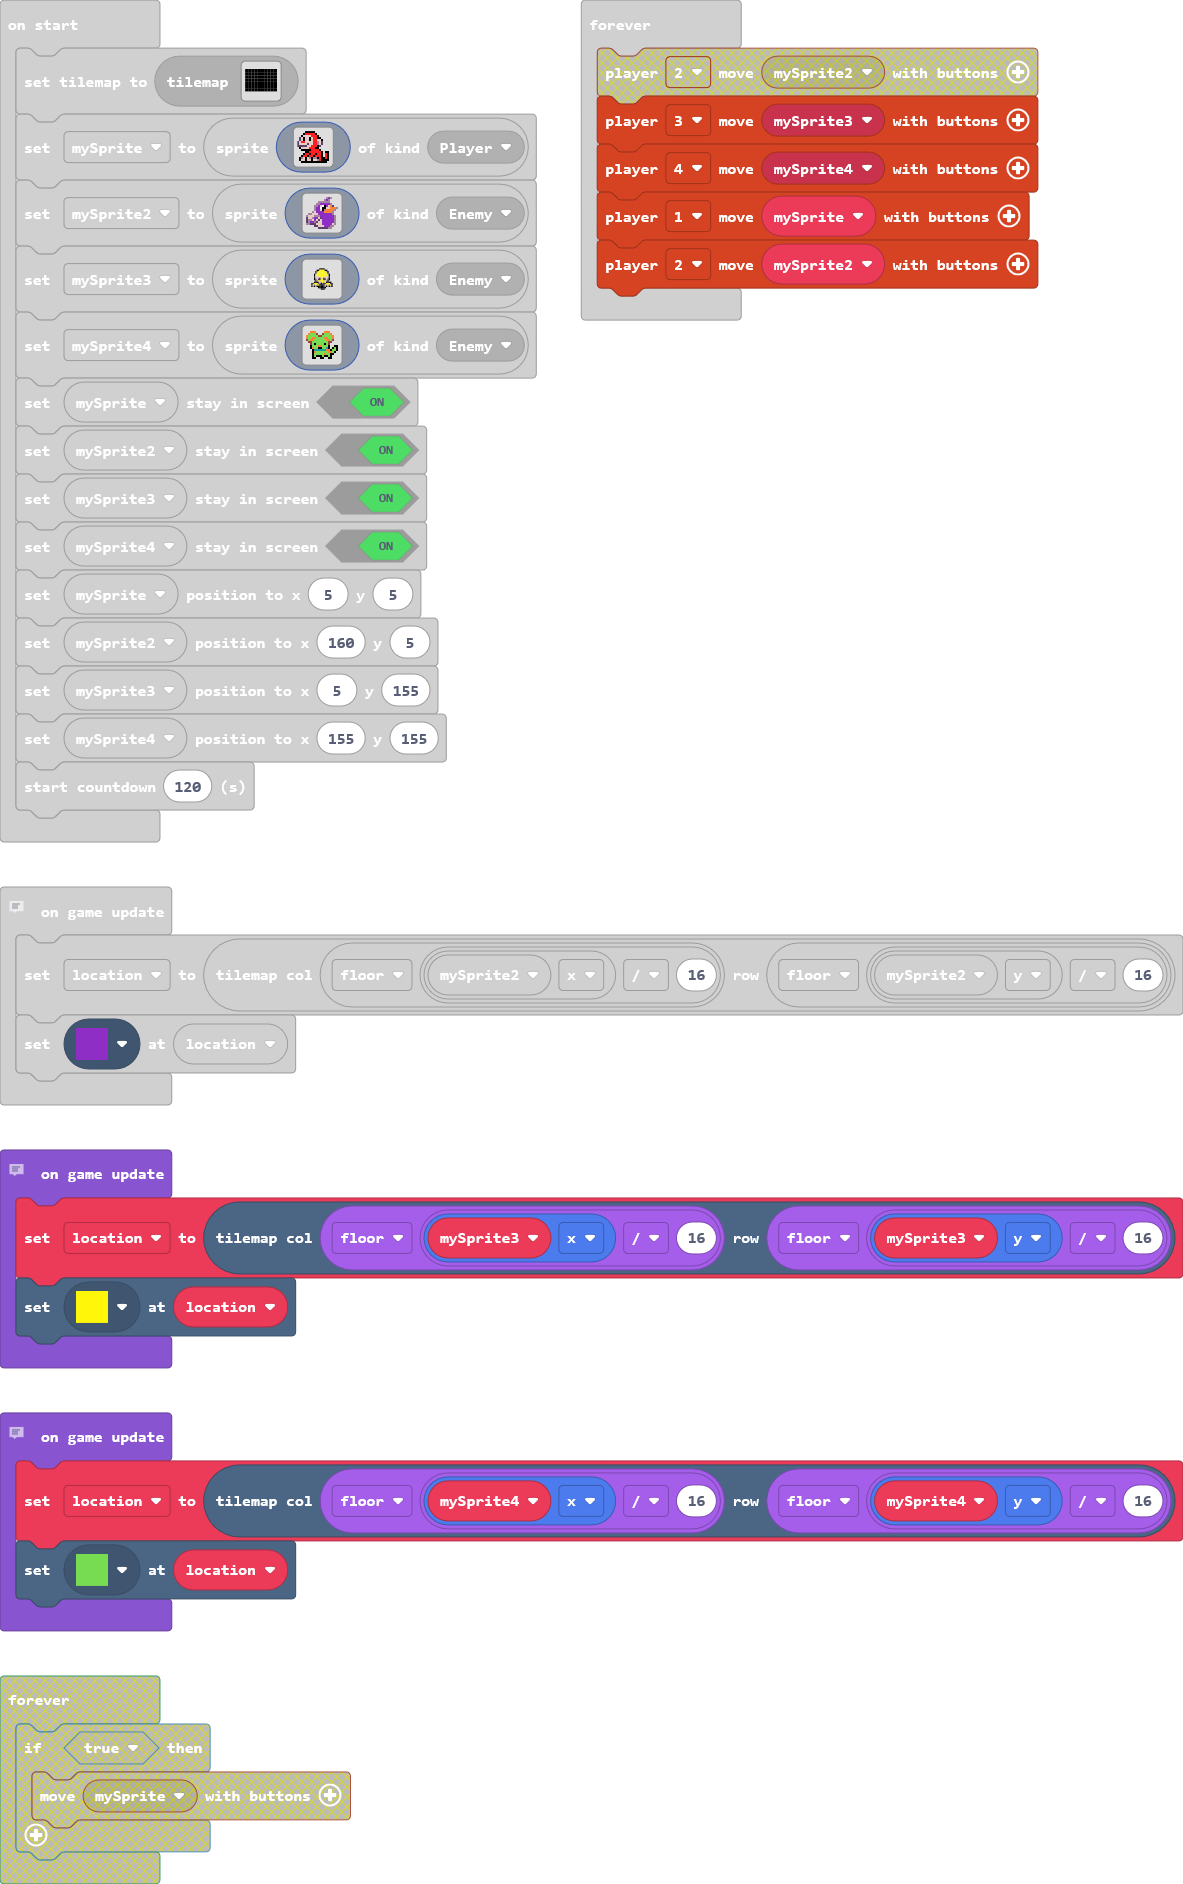
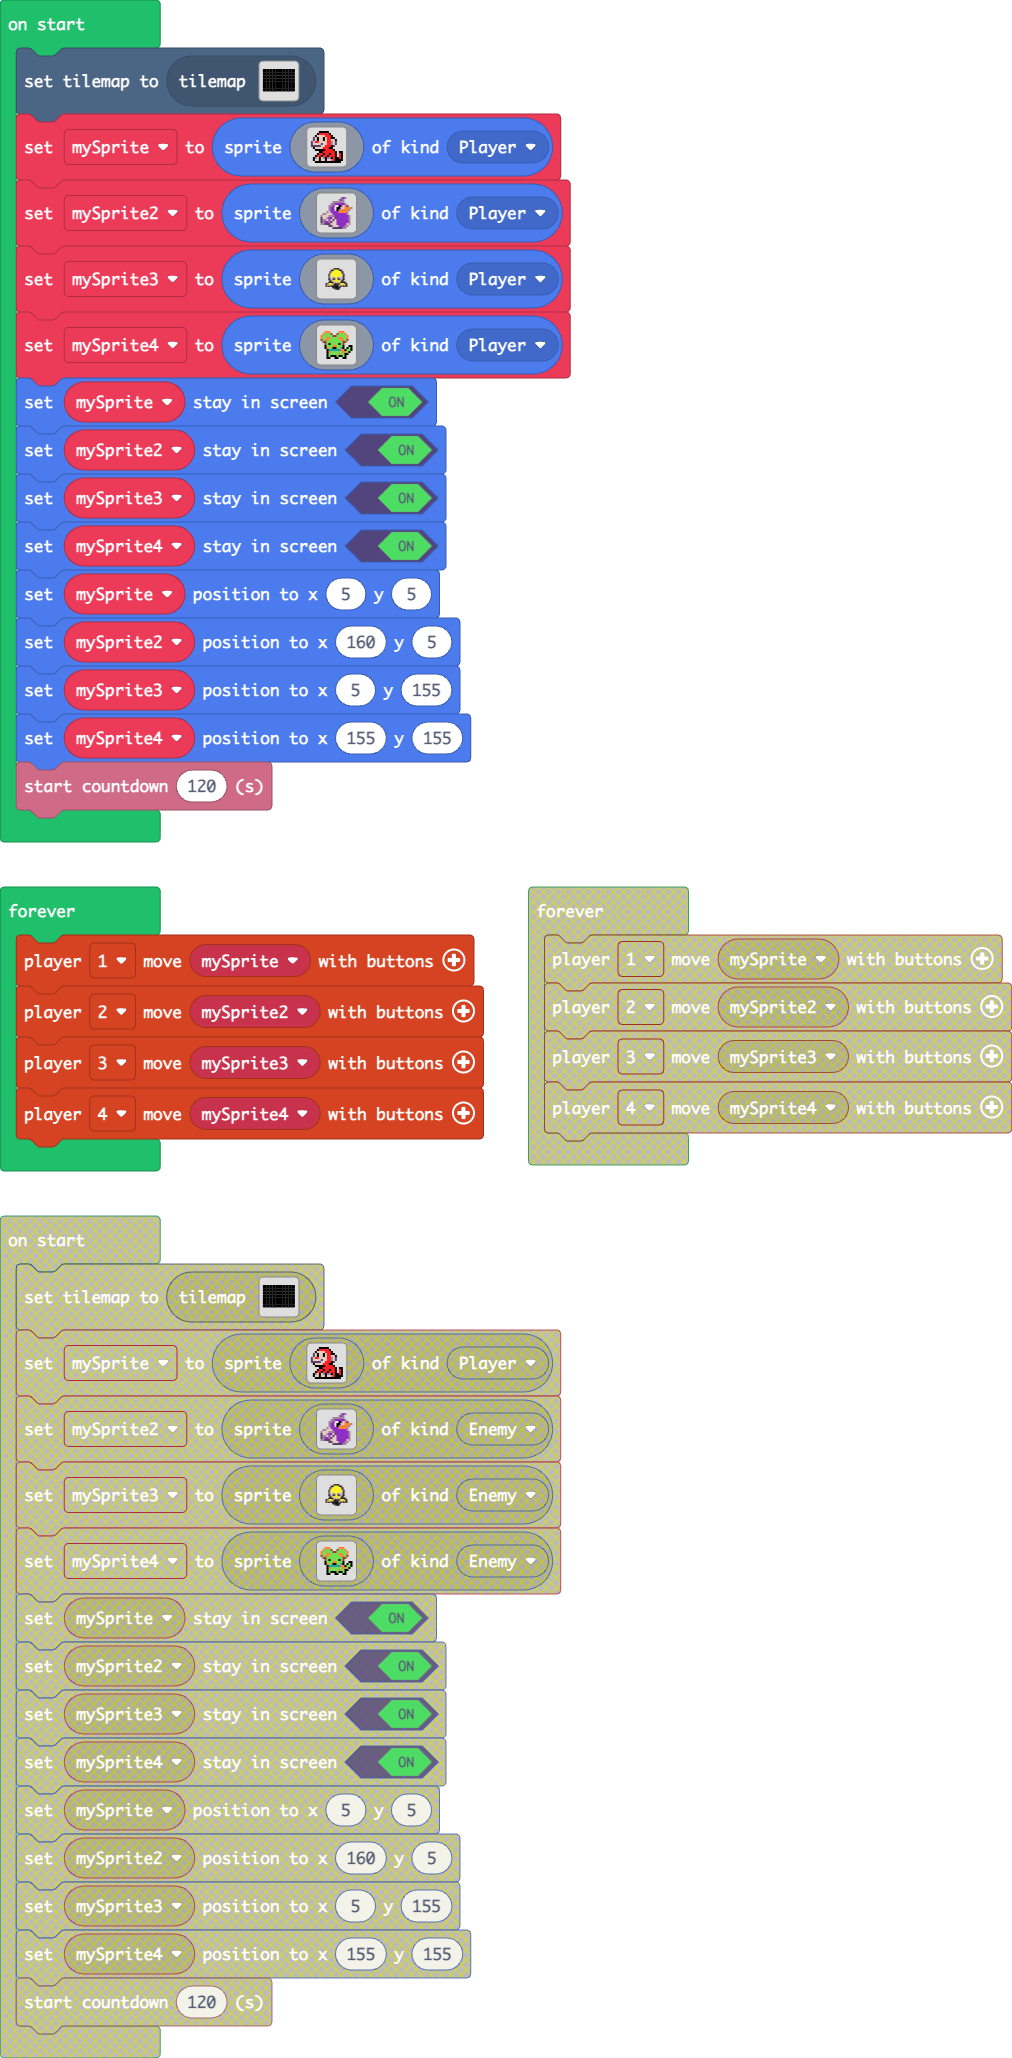
Update main.blocks, main.ts

diff --git a/main.ts b/main.ts
@@ -35,7 +35,7 @@ let mySprite2 = sprites.create(img`
     b b c c c d d d a a a a a d b . 
     . . . . c c d d d a a a b b . . 
     . . . . . . c c c c c b b . . . 
-    `, SpriteKind.Enemy)
+    `, SpriteKind.Player)
 let mySprite3 = sprites.create(img`
     ........................
     ........................
@@ -61,7 +61,7 @@ let mySprite3 = sprites.create(img`
     ........................
     ........................
     ........................
-    `, SpriteKind.Enemy)
+    `, SpriteKind.Player)
 let mySprite4 = sprites.create(img`
     . . 4 4 4 . . . . 4 4 4 . . . . 
     . 4 7 7 7 e . . e 7 7 7 4 . . . 
@@ -77,7 +77,7 @@ let mySprite4 = sprites.create(img`
     . . . f 7 7 7 7 7 4 7 7 f f . . 
     . . . f 7 f f f 7 f f 7 f . . . 
     . . . f f . . f f . . f f . . . 
-    `, SpriteKind.Enemy)
+    `, SpriteKind.Player)
 mySprite.setStayInScreen(true)
 mySprite2.setStayInScreen(true)
 mySprite3.setStayInScreen(true)
@@ -87,6 +87,9 @@ mySprite2.setPosition(160, 5)
 mySprite3.setPosition(5, 155)
 mySprite4.setPosition(155, 155)
 info.startCountdown(120)
+game.onUpdate(function () {
+    location = tiles.getTileLocation(0, 0)
+})
 // This function will update the tile color as the Duck sprite moves
 game.onUpdate(function () {
     location = tiles.getTileLocation(Math.floor(mySprite.x / 16), Math.floor(mySprite.y / 16))
@@ -106,9 +109,6 @@ game.onUpdate(function () {
 game.onUpdate(function () {
     location = tiles.getTileLocation(Math.floor(mySprite4.x / 16), Math.floor(mySprite4.y / 16))
     tiles.setTileAt(location, assets.tile`myTile5`)
-})
-game.onUpdate(function () {
-    location = tiles.getTileLocation(0, 0)
 })
 forever(function () {
     controller.player1.moveSprite(mySprite)
